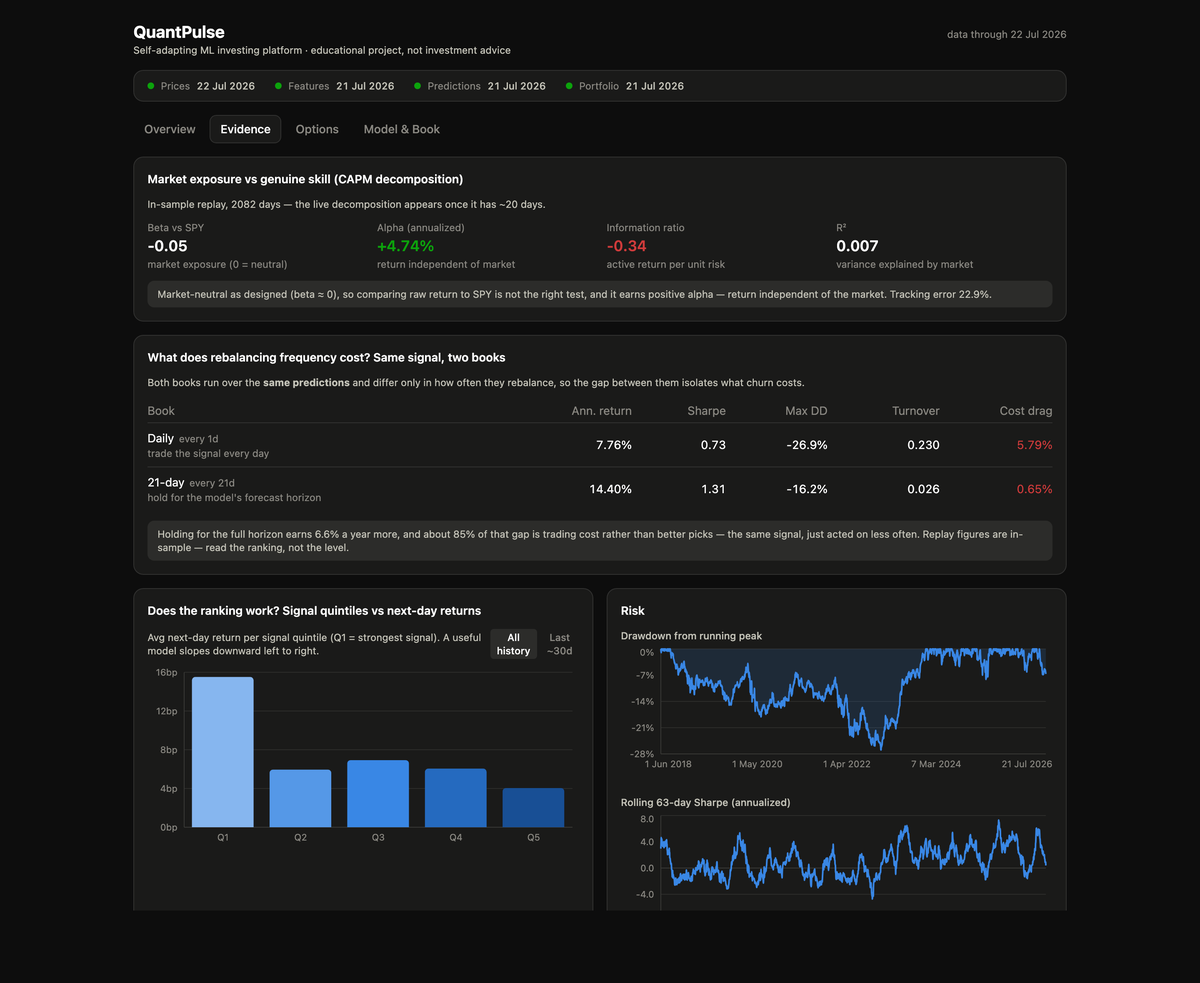
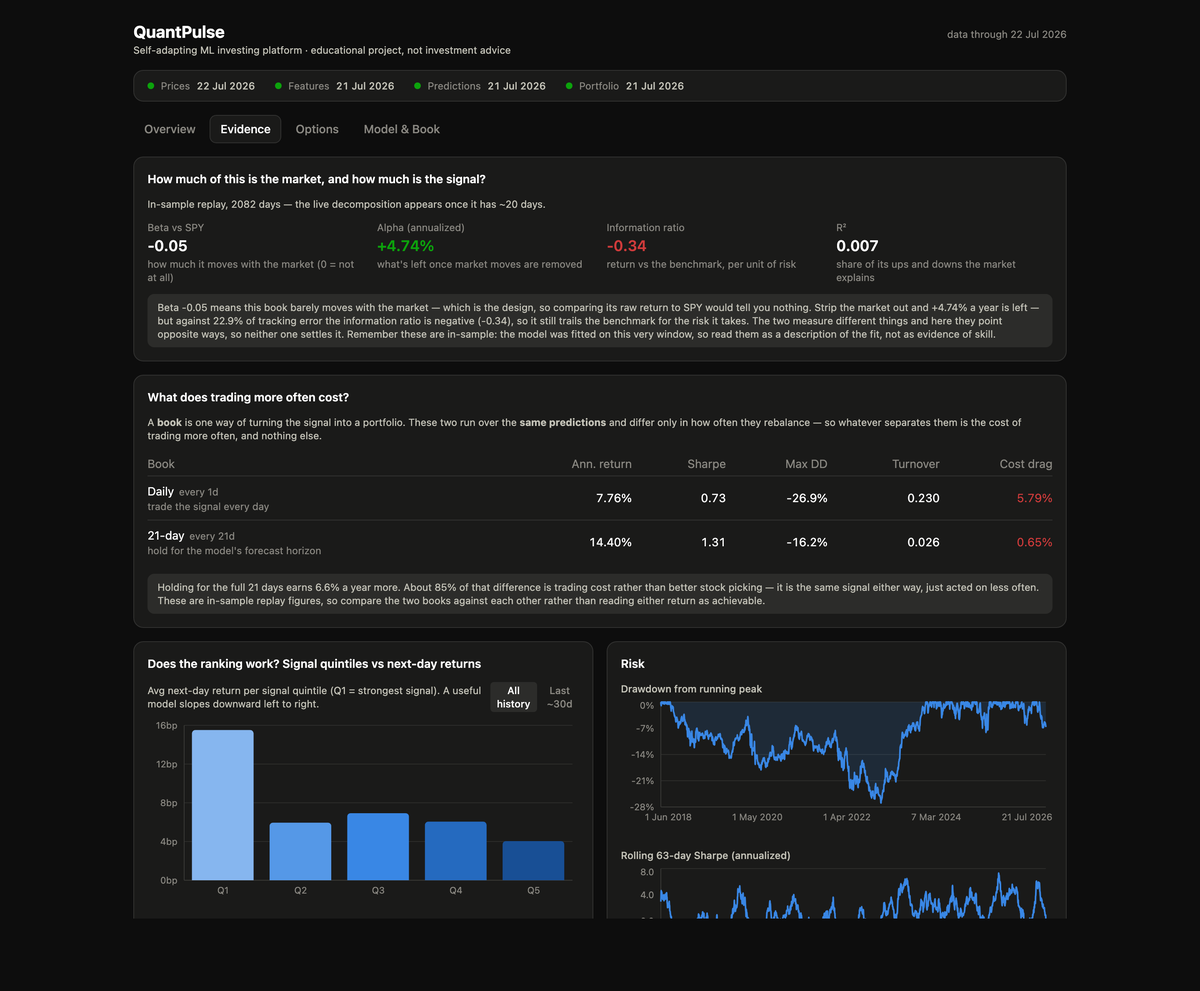
docs(ui): say what the numbers mean, and stop implying more than they do
A wording pass over everything a reader actually sees.

The CAPM verdict claimed "it earns positive alpha" while a negative
information ratio sat in the next column. Alpha is market-adjusted and the IR
is benchmark-relative, so they can disagree in sign - but quoting only the
flattering one reads as a verdict the numbers have not reached. It now names
the disagreement outright and says neither settles it. It also labels any
in-sample window as a description of the fit rather than evidence of skill,
which matters more now that the alpha reads +4.74%.

The live track record was showing a Sharpe of -35.25 off two days. That is not
awkward phrasing, it is a meaningless statistic printed with the same
confidence as a real one, so Sharpe and win rate are now withheld below 20
trading days with a line explaining why.

Smaller things: the equity legend mixed two different axes ("Strategy - live"
is a phase, "rebalanced every 21 days" is a construction); section headings led
with jargon ("Market exposure vs genuine skill (CAPM decomposition)") where a
plain question works better; and "book" was used throughout the UI and docs
without ever being defined, so it now is, at first use in each surface.

Also drops "genuine skill (alpha)" from the README, which asserted exactly what
the dashboard fix walked back, and replaces "gross of costs", "churn", "spread"
and "pp/yr" with words that carry themselves.

Tests cover the reconciled verdict, the withheld ratios, and both agreement and
[…]

diff --git a/web/src/components/AlphaBetaCard.tsx b/web/src/components/AlphaBetaCard.tsx
@@ -30,17 +30,39 @@ function Metric({
   );
 }
 
-// Plain-English read of the decomposition, so the numbers can't be misread.
+/**
+ * Plain-English read of the decomposition. Two rules keep it honest:
+ *
+ * 1. Alpha and the information ratio can disagree in sign — one is market-adjusted, the
+ *    other benchmark-relative — so when they do, say so instead of quoting whichever
+ *    flatters. Claiming "it earns positive alpha" next to a negative IR reads as a
+ *    verdict the numbers haven't reached.
+ * 2. An in-sample window describes a fit, never skill. Label it that way every time.
+ */
 function verdict(s: AlphaBetaStats): string {
   const neutral = s.beta !== null && Math.abs(s.beta) < 0.2;
-  const posAlpha = (s.alpha_annualized ?? 0) > 0;
+  const alpha = s.alpha_annualized ?? 0;
+  const ir = s.information_ratio ?? 0;
+
   const exposure = neutral
-    ? "Market-neutral as designed (beta ≈ 0), so comparing raw return to SPY is not the right test"
-    : `Carries real market exposure (beta ${formatNumber(s.beta)}), so part of its return is simply the market`;
-  const skill = posAlpha
-    ? "and it earns positive alpha — return independent of the market."
-    : "but it earns no positive alpha: after accounting for market exposure the signal adds nothing over this window.";
-  return `${exposure}, ${skill}`;
+    ? `Beta ${formatNumber(s.beta)} means this book barely moves with the market — which is the design, so comparing its raw return to SPY would tell you nothing.`
+    : `Beta ${formatNumber(s.beta)} means a real share of this return is the market moving, not the signal working.`;
+
+  const te = formatPercent(s.tracking_error, 1);
+  let skill: string;
+  if (alpha > 0 && ir < 0) {
+    skill = `Strip the market out and ${formatSignedPercent(alpha)} a year is left — but against ${te} of tracking error the information ratio is negative (${formatNumber(ir)}), so it still trails the benchmark for the risk it takes. The two measure different things and here they point opposite ways, so neither one settles it.`;
+  } else if (alpha > 0) {
+    skill = `Strip the market out and ${formatSignedPercent(alpha)} a year is left, and against ${te} of tracking error the information ratio agrees at ${formatNumber(ir)}.`;
+  } else {
+    skill = `Strip the market out and ${formatSignedPercent(alpha)} a year is left — over this window the signal is not paying for itself (information ratio ${formatNumber(ir)} against ${te} tracking error).`;
+  }
+
+  const caveat =
+    s.phase === "replay"
+      ? " Remember these are in-sample: the model was fitted on this very window, so read them as a description of the fit, not as evidence of skill."
+      : "";
+  return `${exposure} ${skill}${caveat}`;
 }
 
 export function AlphaBetaCard({ data }: { data: AlphaBeta }) {
@@ -67,24 +89,24 @@ export function AlphaBetaCard({ data }: { data: AlphaBeta }) {
         <Metric
           label="Beta vs SPY"
           value={formatNumber(shown.beta)}
-          hint="market exposure (0 = neutral)"
+          hint="how much it moves with the market (0 = not at all)"
         />
         <Metric
           label="Alpha (annualized)"
           value={formatSignedPercent(shown.alpha_annualized)}
           color={deltaColor(shown.alpha_annualized)}
-          hint="return independent of market"
+          hint="what's left once market moves are removed"
         />
         <Metric
           label="Information ratio"
           value={formatNumber(shown.information_ratio)}
           color={deltaColor(shown.information_ratio)}
-          hint="active return per unit risk"
+          hint="return vs the benchmark, per unit of risk"
         />
         <Metric
           label="R²"
           value={formatNumber(shown.r_squared, 3)}
-          hint="variance explained by market"
+          hint="share of its ups and downs the market explains"
         />
       </div>
 
@@ -92,7 +114,7 @@ export function AlphaBetaCard({ data }: { data: AlphaBeta }) {
         className="mt-3 rounded-lg px-3 py-2 text-xs"
         style={{ background: "var(--grid)", color: "var(--text-secondary)" }}
       >
-        {verdict(shown)} Tracking error {formatPercent(shown.tracking_error, 1)}.
+        {verdict(shown)}
       </p>
     </div>
   );

diff --git a/web/src/components/BookComparisonCard.tsx b/web/src/components/BookComparisonCard.tsx
@@ -17,12 +17,12 @@ function verdict(books: BookStats[]): string | null {
   if (!daily || !horizon) return null;
   const gap = horizon.annualized_return - daily.annualized_return;
   if (gap <= 0) {
-    return `Rebalancing daily costs ${formatPercent(daily.annualized_cost_drag, 1)} a year and is not currently behind the slower book — unusual, and worth re-checking once more live days exist.`;
+    return `Trading every day costs ${formatPercent(daily.annualized_cost_drag, 1)} a year in commissions and slippage, yet the daily book is not behind the slower one here. That is unusual — worth re-checking once more live days have accumulated.`;
   }
   // Split the gap: what survives before costs is picks, the remainder is friction.
   const grossGap = horizon.annualized_gross_return - daily.annualized_gross_return;
   const share = Math.round(((gap - grossGap) / gap) * 100);
-  return `Holding for the full horizon earns ${formatPercent(gap, 1)} a year more, and about ${share}% of that gap is trading cost rather than better picks — the same signal, just acted on less often.`;
+  return `Holding for the full 21 days earns ${formatPercent(gap, 1)} a year more. About ${share}% of that difference is trading cost rather than better stock picking — it is the same signal either way, just acted on less often.`;
 }
 
 export function BookComparisonCard({ data }: { data: BookComparison }) {
@@ -38,8 +38,9 @@ export function BookComparisonCard({ data }: { data: BookComparison }) {
   return (
     <div>
       <p className="mb-3 text-xs" style={{ color: "var(--text-secondary)" }}>
-        Both books run over the <strong>same predictions</strong> and differ only in how often they
-        rebalance, so the gap between them isolates what churn costs.
+        A <strong>book</strong> is one way of turning the signal into a portfolio. These two run
+        over the <strong>same predictions</strong> and differ only in how often they rebalance — so
+        whatever separates them is the cost of trading more often, and nothing else.
       </p>
 
       <div className="overflow-x-auto">
@@ -90,7 +91,8 @@ export function BookComparisonCard({ data }: { data: BookComparison }) {
           className="mt-3 rounded-lg px-3 py-2 text-xs"
           style={{ background: "var(--grid)", color: "var(--text-secondary)" }}
         >
-          {summary} Replay figures are in-sample — read the ranking, not the level.
+          {summary} These are in-sample replay figures, so compare the two books against each
+          other rather than reading either return as achievable.
         </p>
       ) : null}
     </div>

diff --git a/web/src/components/TrackRecordCard.tsx b/web/src/components/TrackRecordCard.tsx
@@ -1,6 +1,10 @@
 import type { TrackRecord } from "../api/types";
 import { deltaColor, formatDate, formatNumber, formatPercent, formatSignedPercent } from "../lib/format";
 
+// Ratios need a sample before they mean anything. Two days of returns annualize to a
+// confident-looking Sharpe that is pure noise, so withhold it rather than print it.
+const MIN_DAYS_FOR_RATIOS = 20;
+
 function Stat({ label, value, color }: { label: string; value: string; color?: string }) {
   return (
     <div>
@@ -30,17 +34,33 @@ export function TrackRecordCard({ record }: { record: TrackRecord }) {
       </div>
 
       {live ? (
-        <div className="grid grid-cols-3 gap-3 sm:grid-cols-5">
-          <Stat label="Days" value={String(live.n_days)} />
-          <Stat
-            label="Return"
-            value={formatSignedPercent(live.total_return)}
-            color={deltaColor(live.total_return)}
-          />
-          <Stat label="Sharpe" value={formatNumber(live.sharpe)} />
-          <Stat label="Max DD" value={formatPercent(live.max_drawdown)} />
-          <Stat label="Win rate" value={formatPercent(live.win_rate, 0)} />
-        </div>
+        <>
+          <div className="grid grid-cols-3 gap-3 sm:grid-cols-5">
+            <Stat label="Days" value={String(live.n_days)} />
+            <Stat
+              label="Return"
+              value={formatSignedPercent(live.total_return)}
+              color={deltaColor(live.total_return)}
+            />
+            <Stat
+              label="Sharpe"
+              value={live.n_days >= MIN_DAYS_FOR_RATIOS ? formatNumber(live.sharpe) : "—"}
+            />
+            <Stat label="Max DD" value={formatPercent(live.max_drawdown)} />
+            <Stat
+              label="Win rate"
+              value={live.n_days >= MIN_DAYS_FOR_RATIOS ? formatPercent(live.win_rate, 0) : "—"}
+            />
+          </div>
+          {live.n_days < MIN_DAYS_FOR_RATIOS ? (
+            <p className="mt-2 text-xs" style={{ color: "var(--text-muted)" }}>
+              Sharpe and win rate stay blank until {MIN_DAYS_FOR_RATIOS} trading days.
+              Annualizing a handful of days produces a precise-looking number that means
+              nothing — {live.n_days === 1 ? "one day" : `${live.n_days} days`} cannot tell
+              you about a year.
+            </p>
+          ) : null}
+        </>
       ) : (
         <p className="text-sm" style={{ color: "var(--text-secondary)" }}>
           Accumulating — the first live out-of-sample day lands with the next scheduled

diff --git a/web/src/test/AlphaBetaCard.test.tsx b/web/src/test/AlphaBetaCard.test.tsx
@@ -20,15 +20,35 @@ describe("AlphaBetaCard", () => {
     render(<AlphaBetaCard data={{ phases: [REPLAY] }} />);
     expect(screen.getByText("-0.05")).toBeInTheDocument(); // beta
     expect(screen.getByText("-0.56%")).toBeInTheDocument(); // annualized alpha
-    expect(screen.getByText(/Market-neutral as designed/)).toBeInTheDocument();
-    expect(screen.getByText(/earns no positive alpha/)).toBeInTheDocument();
+    expect(screen.getByText(/barely moves with the market/)).toBeInTheDocument();
+    expect(screen.getByText(/the signal is not paying for itself/)).toBeInTheDocument();
   });
 
-  it("prefers the live phase once it has enough days", () => {
-    const live = { ...REPLAY, phase: "live" as const, n_days: 40, alpha_annualized: 0.03 };
+  it("names the disagreement when alpha is positive but the information ratio is not", () => {
+    // Regression: the card used to read "it earns positive alpha" while a negative IR sat
+    // in the next column — a verdict the numbers had not reached.
+    const conflicted = { ...REPLAY, alpha_annualized: 0.0474, information_ratio: -0.34 };
+    render(<AlphaBetaCard data={{ phases: [conflicted] }} />);
+    expect(screen.getByText(/information ratio is negative/)).toBeInTheDocument();
+    expect(screen.getByText(/point opposite ways, so neither one settles it/)).toBeInTheDocument();
+  });
+
+  it("says the two agree when they actually agree", () => {
+    const good = { ...REPLAY, alpha_annualized: 0.03, information_ratio: 0.4 };
+    render(<AlphaBetaCard data={{ phases: [good] }} />);
+    expect(screen.getByText(/information ratio agrees/)).toBeInTheDocument();
+  });
+
+  it("labels a replay window as a fit, never as skill", () => {
+    render(<AlphaBetaCard data={{ phases: [REPLAY] }} />);
+    expect(screen.getByText(/not as evidence of skill/)).toBeInTheDocument();
+  });
+
+  it("drops the in-sample caveat once the window is genuinely out-of-sample", () => {
+    const live = { ...REPLAY, phase: "live" as const, n_days: 40 };
     render(<AlphaBetaCard data={{ phases: [REPLAY, live] }} />);
     expect(screen.getByText(/Live out-of-sample, 40 days/)).toBeInTheDocument();
-    expect(screen.getByText(/earns positive alpha/)).toBeInTheDocument();
+    expect(screen.queryByText(/not as evidence of skill/)).not.toBeInTheDocument();
   });
 
   it("falls back to replay while the live phase is too short to regress", () => {

diff --git a/web/src/test/BookComparisonCard.test.tsx b/web/src/test/BookComparisonCard.test.tsx
@@ -46,7 +46,7 @@ describe("BookComparisonCard", () => {
     render(<BookComparisonCard data={{ books: [DAILY, HORIZON] }} />);
     // 6.64pp net gap, only 0.96pp of it survives before costs, so ~86% is friction
     // (the docs quote 85% off unrounded inputs; these fixtures are rounded).
-    expect(screen.getByText(/about 86% of that gap is trading cost/)).toBeInTheDocument();
+    expect(screen.getByText(/About 86% of that difference is trading cost/)).toBeInTheDocument();
     expect(screen.getByText(/in-sample/)).toBeInTheDocument();
   });
 
@@ -58,8 +58,8 @@ describe("BookComparisonCard", () => {
   it("does not claim a cost story when the slower book is not ahead", () => {
     const flipped = { ...HORIZON, annualized_return: 0.01 };
     render(<BookComparisonCard data={{ books: [DAILY, flipped] }} />);
-    expect(screen.queryByText(/of that gap is trading cost/)).not.toBeInTheDocument();
-    expect(screen.getByText(/not currently behind the slower book/)).toBeInTheDocument();
+    expect(screen.queryByText(/of that difference is trading cost/)).not.toBeInTheDocument();
+    expect(screen.getByText(/not behind the slower one here/)).toBeInTheDocument();
   });
 
   it("renders a placeholder before any book exists", () => {

diff --git a/web/src/App.tsx b/web/src/App.tsx
@@ -99,7 +99,7 @@ function OverviewTab() {
 
       <div className="grid gap-4 lg:grid-cols-3">
         <div className="space-y-4 lg:col-span-2">
-          <Section title="Strategy vs SPY buy & hold">
+          <Section title="Paper equity vs SPY buy & hold">
             {equity.data ? <BenchmarkEquityChart curve={equity.data} /> : <Placeholder />}
           </Section>
           <Section title={activeTicker ? `Price — ${activeTicker}` : "Price"}>
@@ -154,12 +154,12 @@ function EvidenceTab() {
   return (
     <div className="grid gap-4 lg:grid-cols-2">
       <div className="lg:col-span-2">
-        <Section title="Market exposure vs genuine skill (CAPM decomposition)">
+        <Section title="How much of this is the market, and how much is the signal?">
           {alphaBeta.data ? <AlphaBetaCard data={alphaBeta.data} /> : <Placeholder height="h-32" />}
         </Section>
       </div>
       <div className="lg:col-span-2">
-        <Section title="What does rebalancing frequency cost? Same signal, two books">
+        <Section title="What does trading more often cost?">
           {books.data ? <BookComparisonCard data={books.data} /> : <Placeholder height="h-32" />}
         </Section>
       </div>

diff --git a/web/src/test/TrackRecordCard.test.tsx b/web/src/test/TrackRecordCard.test.tsx
@@ -36,6 +36,24 @@ describe("TrackRecordCard", () => {
     render(<TrackRecordCard record={{ live_since: "2026-07-18", phases: [REPLAY, live] }} />);
     expect(screen.getByText("42")).toBeInTheDocument();
     expect(screen.getByText("+3.10%")).toBeInTheDocument();
+    expect(screen.getByText("0.90")).toBeInTheDocument(); // Sharpe shown once there is a sample
     expect(screen.queryByText(/Accumulating/)).not.toBeInTheDocument();
+  });
+
+  it("withholds Sharpe and win rate until the sample can support them", () => {
+    // Two days of returns annualize to a confident-looking number that is pure noise.
+    const live = {
+      ...REPLAY,
+      phase: "live" as const,
+      n_days: 2,
+      total_return: -0.008,
+      sharpe: -35.25,
+      win_rate: 0,
+    };
+    render(<TrackRecordCard record={{ live_since: "2026-07-18", phases: [REPLAY, live] }} />);
+    expect(screen.queryByText("-35.25")).not.toBeInTheDocument();
+    expect(screen.getAllByText("—").length).toBe(2); // Sharpe and win rate both withheld
+    expect(screen.getByText(/2 days cannot tell you about a year/)).toBeInTheDocument();
+    expect(screen.getByText("-0.80%")).toBeInTheDocument(); // return still shown
   });
 });

diff --git a/web/src/components/BenchmarkEquityChart.tsx b/web/src/components/BenchmarkEquityChart.tsx
@@ -89,7 +89,7 @@ export function BenchmarkEquityChart({ curve }: { curve: EquityCurve }) {
           <LegendChip color="var(--series-1)" label={hasReplay ? "Strategy — live" : "Strategy"} />
         ) : null}
         {hasHorizon ? (
-          <LegendChip color="var(--series-3)" label="Same signal, rebalanced every 21 days" />
+          <LegendChip color="var(--series-3)" label="Same signal, held 21 days" />
         ) : null}
         {hasBenchmark ? <LegendChip color="var(--series-2)" label="SPY buy & hold" /> : null}
       </div>

diff --git a/README.md b/README.md
@@ -68,10 +68,10 @@ flowchart LR
 - **Self-adapting model** — LightGBM forward-return model retrained weekly *and* whenever feature drift is detected; a challenger only replaces the champion if it wins on an out-of-sample backtest.
 - **Transforms** — a dbt project ([transform/](transform/)) builds staging views and analytics marts (daily returns, signal-quintile performance, portfolio drawdown) with dbt tests, integrated into the Dagster asset graph via `dagster-dbt`.
 - **Options analytics** — daily live option-chain snapshots (free via yfinance) enriched with Black-Scholes Greeks, surfaced as an implied-volatility smile/skew, put/call ratio, and a chain browser. Because no free *historical* chain data exists, the pipeline **builds its own options history forward** from the first run. A clearly-disclaimered panel also illustrates how the model's directional view *would* translate into a defined-risk spread — an illustration, never advice.
-- **Measured honestly** — a CAPM decomposition separates market exposure (beta) from genuine skill (alpha) and reports the information ratio, because raw return vs SPY is a meaningless test for a market-neutral book. The dashboard states the verdict in plain English so the numbers can't be misread.
+- **Measured honestly** — a CAPM decomposition splits the return into the part that is just the market moving (beta) and the part that isn't (alpha), reported alongside the information ratio, because comparing raw return to SPY says nothing about a portfolio built to be market-neutral. The dashboard writes the verdict out in plain English — including when alpha and the information ratio point opposite ways, rather than quoting whichever one flatters, and it labels in-sample figures as a description of the fit rather than evidence of skill.
 - **Fails loudly, catches up by itself** — a run-failure sensor logs every failure (served at `/alerts`, plus a desktop notification) and a catch-up sensor re-requests any trading day the schedule slept through, so a laptop that sleeps doesn't silently cost you irreplaceable history.
 - **Honest cost modelling** — the backtest charges commission, slippage, and an annualized short-borrow fee against *measured* position churn, and `quantpulse sensitivity` sweeps both to report a *range* of outcomes plus the breakeven trading cost, rather than a single flattering number.
-- **Two books, one variable** — the same predictions run as a daily-rebalanced book and a 21-day book matching the model's forecast horizon, identical in every other respect. The spread between them isolates what churn costs: **85% of the 6.6pp/yr gap is trading cost, not signal decay.** Keeping both is the point — one book can't tell you that.
+- **Two books, one variable** — the same predictions run as two portfolios (*books*): one rebalanced every day, one held for the model's full 21-day forecast horizon, identical in every other respect. Because only one thing differs between them, the gap measures exactly what trading more often costs — **85% of the 6.6-point annual difference turns out to be trading cost, not worse stock picking.** A single book could never show that, which is why both are kept.
 - **Evidence, not vibes** — the dashboard separates the in-sample replay from the **live out-of-sample track record**, benchmarks the strategy against SPY buy-and-hold, charts signal-quintile forward returns and rolling risk, and shows every champion/challenger decision the self-adapting loop ever made.
 - **Serving** — FastAPI exposes predictions, portfolio equity curve, model metadata, and drift status.
 - **Dashboard** — React app with templated charts that refresh from the API.

diff --git a/docs/roadmap.md b/docs/roadmap.md
@@ -50,22 +50,23 @@ tsc / compose validation — all enforced in CI.
 
 **Settled 2026-07-22.** The model forecasts 21-day returns while the paper book
 rebalanced daily, and the two disagreed wildly (Sharpe 0.26 vs 1.33). Rather than pick
-one, both now run as **books over the same predictions**, differing in exactly one
-dimension — rebalance frequency — so the difference is attributable. Measured over the
-full replay:
+one, both now run over the same predictions as separate *books* — a book being one way
+of turning the signal into a portfolio. They differ in exactly one thing, how often they
+rebalance, which is what lets the difference between them be blamed on that and nothing
+else. Measured over the full replay:
 
 | book | rebalance | ann. return | Sharpe | max DD | mean turnover | cost drag |
 |---|---|---|---|---|---|---|
 | `daily` | every day | 7.76% | 0.73 | −26.9% | 0.230 | **5.79%/yr** |
 | `horizon` | every 21 days | **14.40%** | **1.31** | −16.2% | 0.026 | 0.65%/yr |
 
-Decomposing the 6.64pp gap by stripping costs back out:
+Add the charged costs back to each book and the 6.64 percentage-point gap splits cleanly:
 
-- **85% of it (5.68pp) is trading cost.** The daily book churns 9× harder to chase a
-  signal that only refreshes meaningfully every few weeks.
-- **15% (0.97pp) is signal.** Gross of costs the two are close — 14.76% vs 15.72% —
-  so the 21-day forecast is *not* badly degraded when applied daily. It is simply not
-  worth 7%/yr in commissions and slippage to act on it every day.
+- **85% of it (5.68 points) is trading cost.** The daily book trades 9× as much to chase
+  a signal that only refreshes meaningfully every few weeks.
+- **15% (0.97 points) is the signal itself.** Before costs the two books are close —
+  14.76% vs 15.72% — so the 21-day forecast is *not* badly degraded when applied daily.
+  It simply isn't worth 7%/yr in commissions and slippage to act on it that often.
 
 This also closes the confound: the horizon book (Sharpe 1.31) now agrees with the
 horizon-matched backtest (1.33). They disagreed before because they described different
@@ -79,10 +80,11 @@ that paid twice for its trades. The information ratio is still negative (−0.34
 window is still in-sample, so this is *not* evidence of skill; it is one bug's worth of
 distortion removed from a number the dashboard reports.
 
-**The caveat still applies:** this is replay, scored in-sample over the champion's own
-training window, and carries the survivorship bias below. The champion's true holdout
-Sharpe was 0.21. Read the table as "daily rebalancing destroys value through costs" —
-a robust, mechanical conclusion — not as "this earns 14% a year."
+**The caveat that governs every number above:** this is replay, scored in-sample over the
+champion's own training window, and it carries the survivorship bias described below. The
+champion's true out-of-sample Sharpe was 0.21. Read the table as *"trading daily destroys
+value through costs"* — a mechanical conclusion that holds regardless of whether the
+signal is any good — and not as *"this earns 14% a year."*
 
 Both books are rebuilt on every `portfolio_equity` materialization, stored in
 `portfolio_snapshots` keyed by `variant`, and compared at `GET /portfolio/books`. The

diff --git a/docs/architecture.md b/docs/architecture.md
@@ -53,21 +53,21 @@ a recommendation, and the UI says so prominently.
 
 ## Two paper books, one difference
 
-`ml/portfolio.py` runs **two** books over the same predictions, stored in
-`portfolio_snapshots` keyed by `variant`:
+A *book* is one way of turning the signal into a portfolio. `ml/portfolio.py` runs **two**
+of them over the same predictions, stored in `portfolio_snapshots` keyed by `variant`:
 
 | variant | rebalances | asks |
 |---|---|---|
 | `daily` | every day | what if I trade this signal aggressively? |
 | `horizon` | every 21 trading days | what does the thing the model predicts actually earn? |
 
-They share quantile widths, capital convention, cost model and borrow rate, and differ
-in **exactly one** dimension — rebalance frequency. That is what makes the spread
-between them a measurement rather than a coincidence, and a unit test
+They share quantile widths, capital convention, cost model and borrow rate, and differ in
+**exactly one** thing — rebalance frequency. That is what makes the gap between them a
+measurement rather than a coincidence, and a unit test
 (`test_books_differ_only_in_rebalance_frequency`) fails if any other field diverges.
-Keeping both is deliberate: the gap quantifies how much the churn costs and how fast
-the signal decays, which one book alone cannot show. Compared at `GET /portfolio/books`;
-the finding is written up in [roadmap.md](roadmap.md).
+Keeping both is deliberate: the gap says how much the extra trading costs and how fast
+the signal goes stale, neither of which one book alone can show. Compared at
+`GET /portfolio/books`; the finding is written up in [roadmap.md](roadmap.md).
 
 The dashboard and every dbt mart describe the `daily` book — `stg_portfolio_snapshots`
 pins the variant so additional books cannot double-count downstream.
